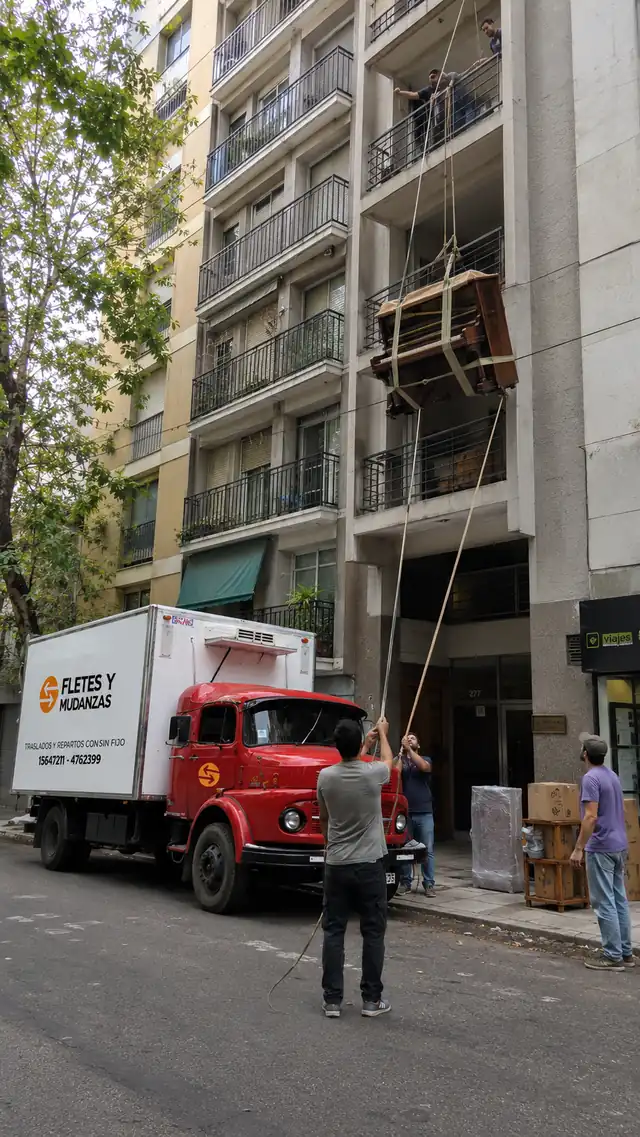
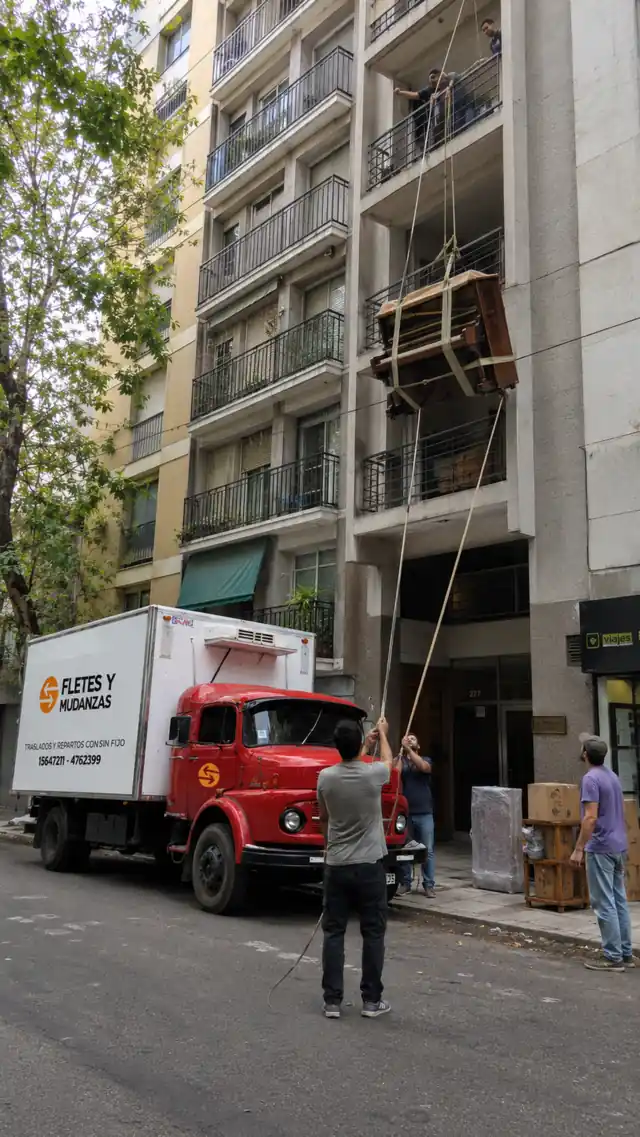
Performance: recomprimir hero e izamiento (-40%) y diferir carga de gtag.js al load
- Imágenes regeneradas desde los PNG originales con suavizado previo (q42):
  hero-750 43→29 KiB, hero-1400 129→90 KiB, izamiento-640 87→63 KiB
- gtag.js se inyecta tras window.load (o primera interacción): mismo ID y config,
  los eventos se encolan en dataLayer; elimina 1.8s de render delay del LCP
- .claude/launch.json para preview local

diff --git a/index.html b/index.html
@@ -26,13 +26,29 @@
 <link rel="preload" as="font" type="font/woff2" href="./fonts/manrope-latin.woff2" crossorigin>
 <link rel="preload" as="image" href="./img/hero-900.webp" imagesrcset="./img/hero-600.webp 600w, ./img/hero-750.webp 750w, ./img/hero-900.webp 900w, ./img/hero-1400.webp 1400w" imagesizes="100vw" fetchpriority="high">
 
-<!-- Google tag (gtag.js) — GA4: NO CAMBIAR, alimenta las conversiones de Google Ads -->
-<script async src="https://www.googletagmanager.com/gtag/js?id=G-K1YYD5M4XR"></script>
+<!-- Google tag (gtag.js) — GA4: NO CAMBIAR EL ID NI EL CONFIG, alimenta las conversiones de Google Ads.
+     El script externo se inyecta después del load para no bloquear el primer render (LCP);
+     los eventos previos quedan encolados en dataLayer y se envían igual. -->
 <script>
 window.dataLayer = window.dataLayer || [];
 function gtag(){dataLayer.push(arguments);}
 gtag('js', new Date());
 gtag('config', 'G-K1YYD5M4XR');
+(function(){
+  var done=false;
+  function load(){
+    if(done) return; done=true;
+    var s=document.createElement('script');
+    s.async=true;
+    s.src='https://www.googletagmanager.com/gtag/js?id=G-K1YYD5M4XR';
+    document.head.appendChild(s);
+  }
+  if(document.readyState==='complete'){ setTimeout(load,0); }
+  else { window.addEventListener('load',function(){ setTimeout(load,0); }); }
+  ['pointerdown','keydown','touchstart'].forEach(function(ev){
+    window.addEventListener(ev,load,{once:true,passive:true});
+  });
+})();
 </script>
 
 <style>
